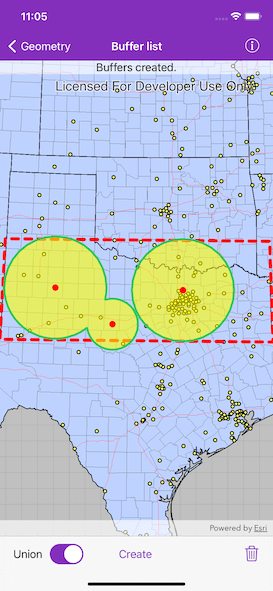
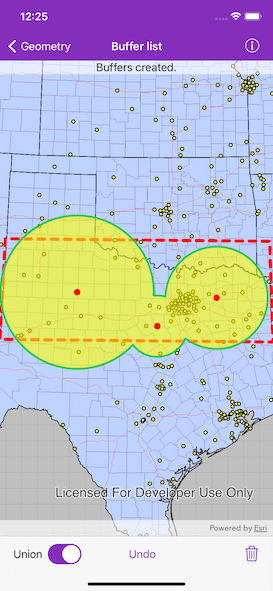
Address review comments.

diff --git a/arcgis-ios-sdk-samples/Geometry/Buffer list/BufferListViewController.swift b/arcgis-ios-sdk-samples/Geometry/Buffer list/BufferListViewController.swift
@@ -18,8 +18,8 @@ import ArcGIS
 class BufferListViewController: UIViewController {
     // MARK: Storyboard views
     
-    /// The create button.
-    @IBOutlet weak var createBarButtonItem: UIBarButtonItem!
+    /// The undo button.
+    @IBOutlet weak var undoBarButtonItem: UIBarButtonItem!
     /// The clear button.
     @IBOutlet weak var clearBarButtonItem: UIBarButtonItem!
     /// A label to display status message.
@@ -78,8 +78,10 @@ class BufferListViewController: UIViewController {
     /// An array of tapped points and buffer radii (in US feet) tuple.
     var tappedPointsAndRadius = [(point: AGSPoint, radius: Double)]() {
         didSet {
-            createBarButtonItem.isEnabled = !tappedPointsAndRadius.isEmpty
+            undoBarButtonItem.isEnabled = !tappedPointsAndRadius.isEmpty
             clearBarButtonItem.isEnabled = !tappedPointsAndRadius.isEmpty
+            // Redraw the buffers.
+            drawBuffers()
         }
     }
     
@@ -108,24 +110,20 @@ class BufferListViewController: UIViewController {
     
     // MARK: Actions
     
-    @IBAction func createButtonTapped(_ sender: UIBarButtonItem) {
-        // Clear existing buffers graphics before drawing.
-        bufferGraphicsOverlay.graphics.removeAllObjects()
-        // Create the buffers.
-        // Notice: the radius distances has the same unit of the map's spatial reference's unit.
-        // In this case, the statePlaneNorthCentralTexas spatial reference uses US feet.
-        if let bufferPolygon = AGSGeometryEngine.bufferGeometries(tappedPointsAndRadius.map { $0.point }, distances: tappedPointsAndRadius.map { NSNumber(value: $0.radius) }, unionResults: isUnionSwitch.isOn) {
-            let graphics = bufferPolygon.map { AGSGraphic(geometry: $0, symbol: nil) }
-            bufferGraphicsOverlay.graphics.addObjects(from: graphics)
-            setStatus(message: "Buffers created.")
-        }
+    @IBAction func undoButtonTapped(_ sender: UIBarButtonItem) {
+        // Remove the last pair of tapped point and radius.
+        _ = tappedPointsAndRadius.popLast()
+    }
+    
+    @IBAction func isUnionSwitchValueChanged(_ sender: UISwitch) {
+        // Redraw buffers when the union switch's value is changed.
+        drawBuffers()
     }
     
     @IBAction func clearButtonTapped(_ sender: UIBarButtonItem) {
         bufferGraphicsOverlay.graphics.removeAllObjects()
         tappedLocationsGraphicsOverlay.graphics.removeAllObjects()
         tappedPointsAndRadius.removeAll()
-        setStatus(message: "Buffers removed. Tap on the map to add buffers.")
     }
     
     // MARK: UI
@@ -134,8 +132,30 @@ class BufferListViewController: UIViewController {
         statusLabel.text = message
     }
     
+    func drawBuffers() {
+        // Clear existing buffers graphics before drawing.
+        bufferGraphicsOverlay.graphics.removeAllObjects()
+        tappedLocationsGraphicsOverlay.graphics.removeAllObjects()
+        
+        guard !tappedPointsAndRadius.isEmpty else {
+            setStatus(message: "Tap on the map to add buffers.")
+            return
+        }
+        
+        // Create the buffers.
+        // Notice: the radius distances has the same unit of the map's spatial reference's unit.
+        // In this case, the statePlaneNorthCentralTexas spatial reference uses US feet.
+        if let bufferPolygon = AGSGeometryEngine.bufferGeometries(tappedPointsAndRadius.map { $0.point }, distances: tappedPointsAndRadius.map { NSNumber(value: $0.radius) }, unionResults: isUnionSwitch.isOn) {
+            // Add graphics symbolizing the tap point.
+            tappedLocationsGraphicsOverlay.graphics.addObjects(from: tappedPointsAndRadius.map { AGSGraphic(geometry: $0.point, symbol: nil) })
+            // Add graphics of the buffer polygons.
+            bufferGraphicsOverlay.graphics.addObjects(from: bufferPolygon.map { AGSGraphic(geometry: $0, symbol: nil) })
+            setStatus(message: "Buffers created.")
+        }
+    }
+    
     // MARK: UIViewController
-     
+    
     override func viewDidLoad() {
         super.viewDidLoad()
         // Add the source code button item to the right of navigation bar.
@@ -145,7 +165,7 @@ class BufferListViewController: UIViewController {
             guard let self = self else { return }
             if let error = error {
                 self.presentAlert(error: error)
-                self.setStatus(message: "Fail to load basemap.")
+                self.setStatus(message: "Failed to load basemap.")
             } else {
                 self.mapView.setViewpoint(AGSViewpoint(targetExtent: self.boundaryPolygon.extent), completion: nil)
                 self.setStatus(message: "Tap on the map to add buffers.")
@@ -164,35 +184,53 @@ extension BufferListViewController: AGSGeoViewTouchDelegate {
             return
         }
         // Use an alert to get radius input from user.
-        let alert = UIAlertController(title: "Provide a buffer radius", message: "Between 0 and 300 \(self.distanceFormatter.string(from: self.bufferRadius.unit))", preferredStyle: .alert)
+        let alert = UIAlertController(title: "Provide a buffer radius", message: "Between 0 and 300 \(distanceFormatter.string(from: bufferRadius.unit))", preferredStyle: .alert)
+        // Create an object to observe changes from the textfield.
+        var textFieldObserver: NSObjectProtocol!
+        // Add a textfield to get user input.
         alert.addTextField { textField in
             textField.keyboardType = .numberPad
             textField.placeholder = "100"
         }
-        let doneAction = UIAlertAction(title: "Done", style: .default) { [weak self, textField = alert.textFields?.first] _ in
-            guard let self = self else { return }
-            // Ensure the buffer radius is valid, and is a positive value that isn't too large.
-            guard let text = textField?.text,
-                !text.isEmpty,
-                let radius = self.distanceFormatter.numberFormatter.number(from: text),
-                radius.doubleValue > 0,
-                radius.doubleValue < 300 else {
-                    self.setStatus(message: "Tap on the map to add buffers.")
-                    return
-            }
+        
+        let doneAction = UIAlertAction(title: "Done", style: .default) { [weak self, unowned alert, mapPoint = mapPoint] _ in
+            // Remove the observer after editing is complete.
+            NotificationCenter.default.removeObserver(textFieldObserver!)
+            
+            guard let self = self,
+                  let text = alert.textFields?.first?.text,
+                  let radius = self.distanceFormatter.numberFormatter.number(from: text)
+            else { return }
+            
             // Update the buffer radius with the text value.
             self.bufferRadius.value = radius.doubleValue
             // The spatial reference in this sample uses US feet as its unit.
             let radiusInFeet = self.bufferRadius.converted(to: .feet).value
-            // Create and add graphic symbolizing the tap point.
-            let pointGraphic = AGSGraphic(geometry: mapPoint, symbol: nil)
-            self.tappedLocationsGraphicsOverlay.graphics.add(pointGraphic)
+            
             // Keep track of tapped points and their radii.
             self.tappedPointsAndRadius.append((point: mapPoint, radius: radiusInFeet))
-            self.setStatus(message: "Buffer center point added.")
         }
+        
+        // Add an observer to ensure the user input is valid.
+        textFieldObserver = NotificationCenter.default.addObserver(forName: UITextField.textDidChangeNotification, object: nil, queue: .main, using: { [weak self, weak alert, unowned doneAction] _ in
+            // Ensure the buffer radius input is valid, and is within the range.
+            if let text = alert?.textFields?.first?.text,
+               !text.isEmpty,
+               let radius = self?.distanceFormatter.numberFormatter.number(from: text),
+               radius.doubleValue > 0,
+               radius.doubleValue < 300 {
+                doneAction.isEnabled = true
+            } else {
+                doneAction.isEnabled = false
+            }
+        })
+        // Disable done button by default.
+        doneAction.isEnabled = false
         alert.addAction(doneAction)
-        let cancelAction = UIAlertAction(title: "Cancel", style: .cancel)
+        let cancelAction = UIAlertAction(title: "Cancel", style: .cancel) { _ in
+            // Remove the observer when canceled.
+            NotificationCenter.default.removeObserver(textFieldObserver!)
+        }
         alert.addAction(cancelAction)
         alert.preferredAction = doneAction
         present(alert, animated: true)

diff --git a/arcgis-ios-sdk-samples/Geometry/Buffer list/README.md b/arcgis-ios-sdk-samples/Geometry/Buffer list/README.md
@@ -10,7 +10,7 @@ Creating buffers is a core concept in GIS proximity analysis that allows you to 
 
 ## How to use the sample
 
-Tap on the map to add points. Tap the create button to draw buffer(s) around the points (the radius of the buffer is determined by the value of the slider). Toggle on union if you want the result to union (combine) the buffers. Tap the trash icon to start over. The red dashed envelope shows the area where you can expect reasonable results for planar buffer operations with the North Central Texas State Plane spatial reference.
+Tap on the map to add buffers. Toggle on "Union" toggle if you want the result to union (combine) the buffers. Tap the trash icon to start over. The red dashed envelope shows the area where you can expect reasonable results for planar buffer operations with the North Central Texas State Plane spatial reference.
 
 ## How it works
 
